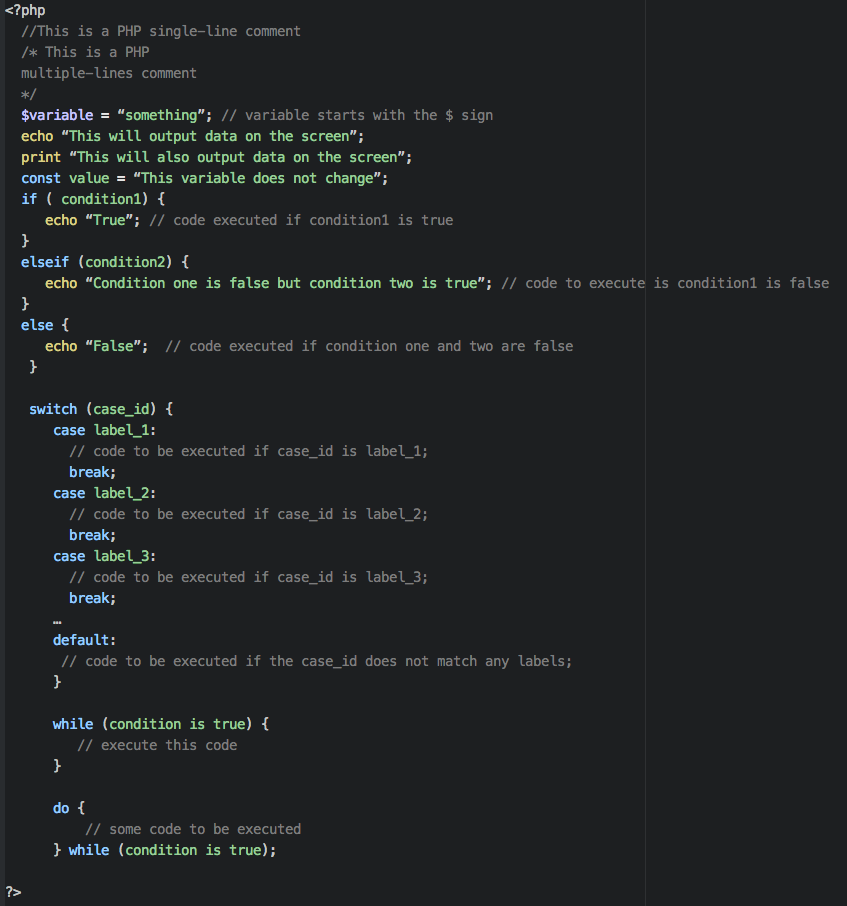
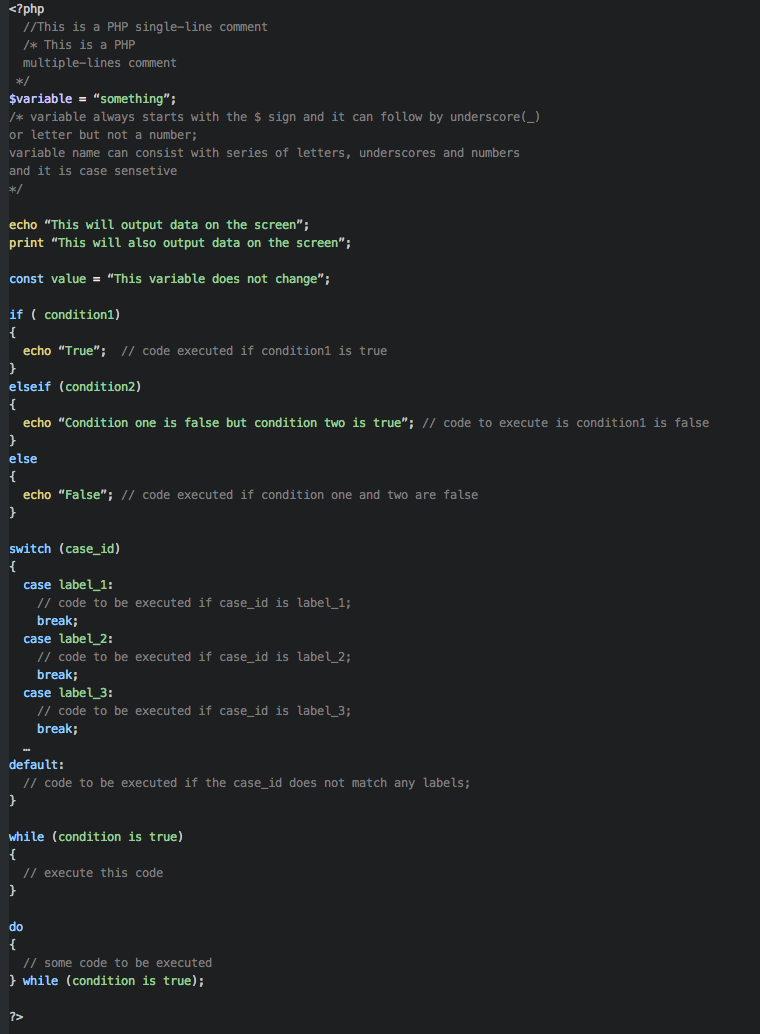
written post oabout basic PHP

diff --git a/_posts/2015-10-27.php b/_posts/2015-10-27.php
@@ -11,101 +11,86 @@ $mypostcontent = " ?>
 PHP stands for Hypertext Preprocessor. It a widely used, open source scripting language. PHP is executed on a server and can generate dynamic page content. PHP file can contain etxt and PHP Code as well a HTML, CSS and JavaScript. It runs on various platforms.
 </p>
 
+<p>
 Basic syntax:
-<?php
-	//This is a PHP single-line comment
-	/* This is a PHP
-	multiple-lines comment
- */
-$variable = “something”; // variable starts with the $ sign
-echo “This will output data on the screen”;
-print “This will also output data on the screen”;
-const value = “This variable does not change”;
-if ( condition1) {
-	echo “True”;	// code executed if condition1 is true
-}
-elseif (condition2) {
-	echo “Condition one is false but condition two is true”; // code to execute is condition1 is false
-}
-else {
-	echo “False”;	// code executed if condition one and two are false
-}
+</p>
+<img class="halfsize"src = "img/phpcode.png" alt ="php code">
 
-switch (case_id) {
-	case label_1:
-		// code to be executed if case_id is label_1;
-		break;
-	case label_2:
-		// code to be executed if case_id is label_2;
-		break;
-	case label_3:
-		// code to be executed if case_id is label_3;
-		break;
-	…
-default:
-	// code to be executed if the case_id does not match any labels;
-}
+<p>
+“In PHP, all keywords (e.g. if, else, while, echo, etc.), classes, functions, and user-defined functions are NOT case-sensitive.” <a href="http:\/\/www.w3schools.com/php/">(w3schools)</a><br>
+PHP statement si anything that is an executable line and it ends with semicolon (;)<br>
+White spaces (spaces, tabs, blank lines) do not matter to PHP interpreter, it ignores it completely but using white space properly improves readability of the code.
+</p>
 
-while (condition is true) {
-	// execute this code
-}
+<ul class="list">Variable Scope:
+<li>local - declared inside a function</li>
+<li>global - declared outside of function</li>
+<li>static - local variable that is not deleted and kept for further ‘jobs’; can be called without creating an instance</li>
+</ul>
 
-do {
-	// some code to be executed
-} while (condition is true);
+<ul class="list">Difference between ‘echo’ and ‘print’:
+<li><code>echo</code>does not return any value and it cannot be used in expressions but it can take multiple parameters;</li>
+<li><code>print</code>does return 1 and it can be used in expressions but can only take one argument;</li>
+</ul>
 
+<p>
+Data types: string, integer, float, boolean, array, object, NULL, resource<br>
+Variable of type  NULL is a variable that has no assigned value to it.<br>
+Reference type is the storing reference of functions and resources external to PHP (data call)<br>
+</p>
 
-?>
-
-“In PHP, all keywords (e.g. if, else, while, echo, etc.), classes, functions, and user-defined functions are NOT case-sensitive.” (w3schools)
-
-
-Variable Scope:
-local - declared inside a function
-global - declared outside of function
-static - local variable that is not deleted and kept for further ‘jobs’; can be called without creating an instance
-
-Difference between ‘echo’ and ‘print’:
-‘echo’ does not return any value and it cannot be used in expressions but it can take multiple parameters;
-‘print’ does return 1 and it can be used in expressions but can only take one argument;
-
-Data types: string, integer, float, boolean, array, object, NULL, resource
-Variable of type  NULL is a variable that has no assigned value to it.
-Reference type is the storing reference of functions and resources external to PHP (data call)
-
-String functions:
-strlen(“string)”; - returns length of a string
-str_word_count(); - counts the number of words;
-strrev(); - returns reverse string;
-substr(); returns a piece of a string;
-strpos(“where(haystack)”, “what(needle)“); - returns a position of a character of the first match;
-str_replace(“what”, “with what”, “where”); - replaces some characters with other characters;
-strtoupper(); - changes string to all uppercase letters;
-strtolower(); - changes the string to all lower case letters
-
-Constant is a variable that does not change and it can be defined in two ways:
-const name = value;
-	const message_one = “This variable does not change”;
-or
-define (name, value, case-sensitive);
-	define (“message_two”, “This variable also does not change and is case sensitive”);
-	define (“message_three”, “This variable also does not change but is not case sensitive”, true);
-
-Operators:
-Arithmetic: + , - , * , / , % , **
-Assignment: = , += , -= , *= , /= , %=
-Comparison: equal == , identical === , not equal != or <> , not identical !== , > , >= , < , <=
+<ul class="list">String functions:
+<li><code>strlen(“string)”;</code> - returns length of a string</li>
+<li><code>str_word_count();</code> - counts the number of words;</li>
+<li><code>strrev();</code> - returns reverse string;</li>
+<li><code>substr();</code> - returns a piece of a string;</li>
+<li><code>strpos(“where(haystack)”, “what(needle)“);</code> - returns a position of a character of the first match;</li>
+<li><code>str_replace(“what”, “with what”, “where”);</code> - replaces some characters with other characters;</li>
+<li><code>strtoupper();</code> - changes string to all uppercase letters;</li>
+<li><code>strtolower();</code> - changes the string to all lower case letters</li>
+</ul>
+<p>
+Constant is a variable that does not change and it can be defined in two ways:<br>
+<code>const name = value;<br>
+const message_one = “This variable does not change”;<br>
+</code>
+or<br>
+<code>
+define (name, value, case-sensitive);<br>
+define (“message_two”, “This variable also does not change and is case sensitive”);<br>
+define (“message_three”, “This variable also does not change but is not case sensitive”, true);<br>
+</code>
+</p>
+<ul class="list">Operators:
+<li>Arithmetic:<code> + , - , * , / , % , **</code></li>
+<li>Assignment:<code> = , += , -= , *= , /= , %=</code></li>
+<li>Comparison: equal<code>==</code>, identical <code>===</code> , not equal <code>!=</code> or <code><></code>, not identical <code> !== , > , >= , < , <=</code></li>
+<li><ul class="list">
 Increment/decrement:
-pre-increment/decrement: ++$a/--$a - increments $a by one and then returns $a
-post-increment/decrement: $b++/$b-- - returns $b and then increments it by one
-Logical: and && , or || , not ! , xor (true if either side is true but not both)
-String: . concatenation , .= concatenation assignment
-Array:
-+ (union),
-== (equality - returns true if have the same key/value pairs),
-=== (identity - returns true if have the same key/value pairs in the same order and of the same types),
-!= (inequality - return true if not equal) or <>
-!== (non-identity - returns true if not identical)
+<li>
+pre-increment/decrement: <code>++$a/--$a</code> - increments $a by one and then returns $a</li>
+post-increment/decrement: <code>$b++/$b--</code> - returns $b and then increments it by one</li>
+</ul>
+</li>
+<li>Logical: <code>and && , or || , not ! , xor (true if either side is true but not both)</code></li>
+<li>String:<code> . </code>concatenation , <code>.= </code>concatenation assignment</li>
+<li><code></code></li>
+<li><ul class="list">Array:
+<li><code>+</code> (union),</li>
+<li><code>==</code> (equality - returns true if have the same key/value pairs),</li>
+<li><code>===</code> (identity - returns true if have the same key/value pairs in the same order and of the same types),</li>
+<li><code>!=</code> (inequality - return true if not equal) or <></li>
+<li><code>!==</code> (non-identity - returns true if not identical)</li>
+</ul>
+</li>
+</ul>
+
+
+
+
+
+
+
 Loops:
 ‘while’ - will check condition before executing the code where ‘do.. while’ loop will execute code once and then check condition.
 

diff --git a/phpcode.php b/phpcode.php
@@ -3,21 +3,33 @@
 	/* This is a PHP
 	multiple-lines comment
  */
-$variable = “something”; // variable starts with the $ sign
+$variable = “something”;
+/* variable always starts with the $ sign and it can follow by underscore(_)
+or letter but not a number;
+variable name can consist with series of letters, underscores and numbers
+and it is case sensetive
+*/
+
 echo “This will output data on the screen”;
 print “This will also output data on the screen”;
+
 const value = “This variable does not change”;
-if ( condition1) {
+
+if ( condition1)
+{
 	echo “True”;	// code executed if condition1 is true
 }
-elseif (condition2) {
+elseif (condition2)
+{
 	echo “Condition one is false but condition two is true”; // code to execute is condition1 is false
 }
-else {
+else
+{
 	echo “False”;	// code executed if condition one and two are false
 }
 
-switch (case_id) {
+switch (case_id)
+{
 	case label_1:
 		// code to be executed if case_id is label_1;
 		break;
@@ -32,11 +44,13 @@ default:
 	// code to be executed if the case_id does not match any labels;
 }
 
-while (condition is true) {
+while (condition is true)
+{
 	// execute this code
 }
 
-do {
+do
+{
 	// some code to be executed
 } while (condition is true);
 
